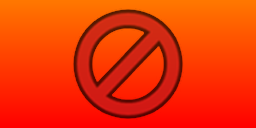
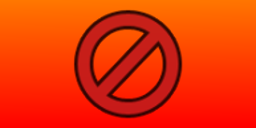
Tweak map preview background colors

Changed region(s): [[0.2812, 0.0625, 0.7188, 0.9375], [0.4062, 0.3125, 0.6562, 0.8125], [0.5625, 0.625, 0.625, 0.75]]

diff --git a/QTfrontend/ui/widget/mapContainer.cpp b/QTfrontend/ui/widget/mapContainer.cpp
@@ -71,9 +71,21 @@ HWMapContainer::HWMapContainer(QWidget * parent) :
     templateFilter = 0;
     m_master = true;
 
-    linearGrad = QLinearGradient(QPoint(128, 0), QPoint(128, 128));
-    linearGrad.setColorAt(1, QColor(0, 0, 192));
-    linearGrad.setColorAt(0, QColor(66, 115, 225));
+    linearGradNormal = QLinearGradient(QPoint(128, 0), QPoint(128, 128));
+    linearGradNormal.setColorAt(1, QColor(0, 0, 192));
+    linearGradNormal.setColorAt(0, QColor(66, 115, 225));
+
+    linearGradLoading = QLinearGradient(QPoint(128, 0), QPoint(128, 128));
+    linearGradLoading.setColorAt(1, QColor(58, 58, 137));
+    linearGradLoading.setColorAt(0, QColor(90, 109, 153));
+
+    linearGradMapError = QLinearGradient(QPoint(128, 0), QPoint(128, 128));
+    linearGradMapError.setColorAt(1, QColor(255, 1, 0));
+    linearGradMapError.setColorAt(0, QColor(255, 119, 0));
+
+    linearGradNoPreview = QLinearGradient(QPoint(128, 0), QPoint(128, 128));
+    linearGradNoPreview.setColorAt(1, QColor(15, 9, 72));
+    linearGradNoPreview.setColorAt(0, QColor(15, 9, 72));
 
     mainLayout.setContentsMargins(HWApplication::style()->pixelMetric(QStyle::PM_LayoutLeftMargin),
                                   10,
@@ -333,20 +345,9 @@ void HWMapContainer::setImage(const QPixmap &newImage)
     cType->setEnabled(isMaster());
 }
 
-void HWMapContainer::setImage(const QPixmap &newImage, bool showHHLimit)
+void HWMapContainer::setImage(const QPixmap &newImage, const QLinearGradient &linearGrad, bool showHHLimit)
 {
-    if (showHHLimit)
-    {
-        addInfoToPreview(newImage);
-    }
-    else
-    {
-        QIcon mapPreviewIcon = QIcon();
-        mapPreviewIcon.addPixmap(newImage, QIcon::Normal);
-        mapPreviewIcon.addPixmap(newImage, QIcon::Disabled);
-        mapPreview->setIcon(mapPreviewIcon);
-        mapPreview->setIconSize(newImage.size());
-    }
+    addInfoToPreview(newImage, linearGrad, showHHLimit);
 
     pMap = 0;
 
@@ -359,29 +360,32 @@ void HWMapContainer::setHHLimit(int newHHLimit)
     hhLimit = newHHLimit;
 }
 
-// Should this add text to identify map size?
 void HWMapContainer::addInfoToPreview(const QPixmap &image)
 {
-    QPixmap finalImage = QPixmap(image.size());
-//finalImage.fill(QColor(0, 0, 0, 0));
+    addInfoToPreview(image, linearGradNormal, true);
+}
 
+// Should this add text to identify map size?
+void HWMapContainer::addInfoToPreview(const QPixmap &image, const QLinearGradient &linearGrad, bool drawHHLimit)
+{
+    QPixmap finalImage = QPixmap(image.size());
     QPainter p(&finalImage);
+
     p.fillRect(finalImage.rect(), linearGrad);
     p.drawPixmap(finalImage.rect(), image);
-    //p.setPen(QColor(0xf4,0x9e,0xe9));
-    p.setPen(QColor(0xff,0xcc,0x00));
-    p.setBrush(QColor(0, 0, 0));
-    p.drawRect(finalImage.rect().width() - hhSmall.rect().width() - 28, 3, 40, 20);
-    p.setFont(QFont("MS Shell Dlg", 10));
-    QString text = (hhLimit > 0) ? QString::number(hhLimit) : "?";
-    p.drawText(finalImage.rect().width() - hhSmall.rect().width() - 14 - (hhLimit > 9 ? 10 : 0), 18, text);
-    p.drawPixmap(finalImage.rect().width() - hhSmall.rect().width() - 5, 5, hhSmall.rect().width(), hhSmall.rect().height(), hhSmall);
 
-    // Shrink, crop, and center preview image
-    /*QPixmap centered(QSize(m_previewSize.width() - 6, m_previewSize.height() - 6));
-    QPainter pc(&centered);
-    pc.fillRect(centered.rect(), linearGrad);
-    pc.drawPixmap(-3, -3, finalImage);*/
+    if (drawHHLimit)
+    {
+        p.setPen(QColor(0xff,0xcc,0x00));
+        p.setBrush(QColor(0, 0, 0));
+        p.setFont(QFont("MS Shell Dlg", 10));
+
+        p.drawRect(finalImage.rect().width() - hhSmall.rect().width() - 28, 3, 40, 20);
+
+        QString text = (hhLimit > 0) ? QString::number(hhLimit) : "?";
+        p.drawText(finalImage.rect().width() - hhSmall.rect().width() - 14 - (hhLimit > 9 ? 10 : 0), 18, text);
+        p.drawPixmap(finalImage.rect().width() - hhSmall.rect().width() - 5, 5, hhSmall.rect().width(), hhSmall.rect().height(), hhSmall);
+    }
 
     // Set the map preview image. Make sure it is always colored the same,
     // no matter if disabled or not.
@@ -410,17 +414,16 @@ void HWMapContainer::askForGeneratedPreview()
 
     setHHLimit(0);
 
-    const QPixmap waitIcon(":/res/iconTime.png");
-
     QPixmap waitImage(m_previewSize);
-    QPainter p(&waitImage);
+    waitImage.fill(Qt::transparent);
 
-    p.fillRect(waitImage.rect(), linearGrad);
+    QPainter p(&waitImage);
+    const QPixmap waitIcon(":/res/iconTime.png");
     int x = (waitImage.width() - waitIcon.width()) / 2;
     int y = (waitImage.height() - waitIcon.height()) / 2;
     p.drawPixmap(QPoint(x, y), waitIcon);
 
-    addInfoToPreview(waitImage);
+    setImage(waitImage, linearGradLoading, false);
 
     cType->setEnabled(false);
 }
@@ -799,7 +802,7 @@ void HWMapContainer::updatePreview()
         case MapModel::Invalid:
             // Map error image
             failPixmap = QPixmap(":/res/missingMap.png");
-            setImage(failPixmap, false);
+            setImage(failPixmap, linearGradMapError, false);
             lblDesc->clear();
             break;
         case MapModel::GeneratedMap:
@@ -815,7 +818,7 @@ void HWMapContainer::updatePreview()
             {
                 // Map error image due to missing map
                 failPixmap = QPixmap(":/res/missingMap.png");
-                setImage(failPixmap, false);
+                setImage(failPixmap, linearGradMapError, false);
                 lblDesc->clear();
                 break;
             }
@@ -825,14 +828,15 @@ void HWMapContainer::updatePreview()
                 QPixmap mapImage;
                 bool success = mapImage.load("physfs://Maps/" + m_mapInfo.name + "/preview.png");
 
+                setHHLimit(m_mapInfo.limit);
                 if(!success)
                 {
                     // Missing preview image
-                    setImage(QPixmap());
+                    QPixmap empty = QPixmap(m_previewSize);
+                    empty.fill(Qt::transparent);
+                    setImage(empty, linearGradNoPreview, true);
                     return;
                 }
-
-                setHHLimit(m_mapInfo.limit);
                 setImage(mapImage);
             }
     }

diff --git a/QTfrontend/ui/widget/mapContainer.h b/QTfrontend/ui/widget/mapContainer.h
@@ -105,7 +105,6 @@ class HWMapContainer : public QWidget
         void setRandomSeed();
         void setRandomTheme();
         void setRandomMap();
-        void addInfoToPreview(const QPixmap & image);
         void setNewSeed(const QString & newSeed);
         void mapTypeChanged(int);
         void showThemePrompt();
@@ -177,7 +176,9 @@ class HWMapContainer : public QWidget
         void intSetFeatureSize(int size);
         void setMissingTheme(const QString & name);
         void mapChanged(const QModelIndex & map, int type, const QModelIndex & old = QModelIndex());
-        void setImage(const QPixmap & newImage, bool showHHLimit);
+        void setImage(const QPixmap & newImage, const QLinearGradient & linearGrad, bool showHHLimit);
+        void addInfoToPreview(const QPixmap & image);
+        void addInfoToPreview(const QPixmap & image, const QLinearGradient & linearGrad, bool drawHHLimit);
         void setMapInfo(MapModel::MapInfo mapInfo);
         void changeMapType(MapModel::MapType type, const QModelIndex & newMap = QModelIndex());
         void updateHelpTexts(MapModel::MapType type);
@@ -194,7 +195,10 @@ class HWMapContainer : public QWidget
         QString m_theme;
         QString m_curMap;
 
-        QLinearGradient linearGrad; ///< for preview background
+        QLinearGradient linearGradNormal; ///< for preview background
+        QLinearGradient linearGradLoading; ///< for preview background while loading/generating map
+        QLinearGradient linearGradNoPreview; ///< for preview background when map preview image is missing
+        QLinearGradient linearGradMapError; ///< for preview background when map is missing
         QSize m_previewSize;
 };
 
